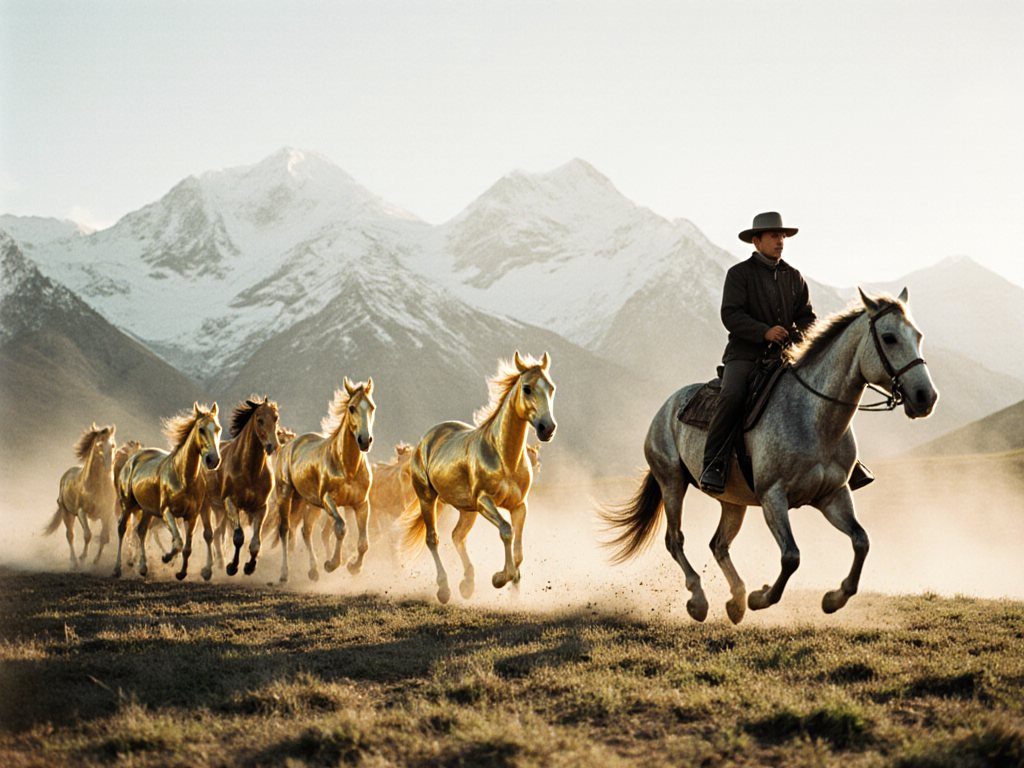
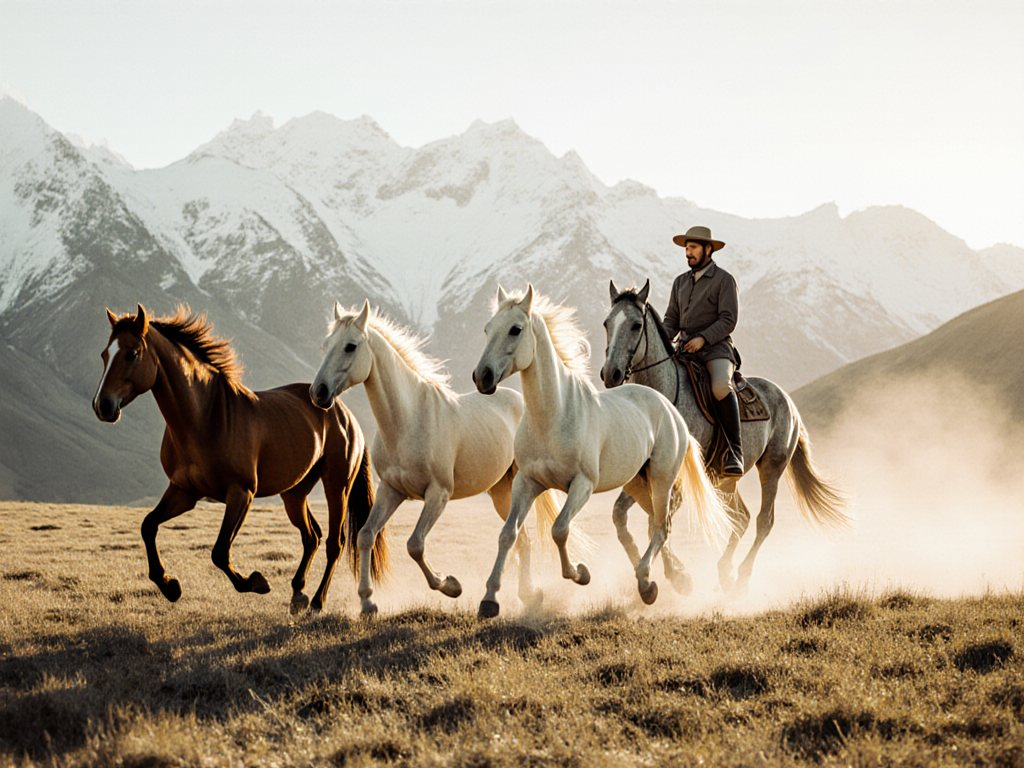
New Akyel horses photograph

diff --git a/wiki/Iradi_Equestrian_Culture_&_Breeds.html b/wiki/Iradi_Equestrian_Culture_&_Breeds.html
@@ -14,7 +14,7 @@
 <meta property="og:description" content="Iradi equestrian culture comprises the horse-breeding, riding, sporting and craft traditions of Irad, including its two native breeds, the mountain Chongtor and…">
 <meta property="og:url" content="https://irad.wiki/wiki/Iradi_Equestrian_Culture_%26_Breeds">
 <meta property="og:image" content="https://irad.wiki/images/Akyel_horses_galloping.jpg">
-<meta property="og:image:alt" content="A herd of slender golden horses galloping through dust across a meadow, followed by a rider in a felt hat on a grey horse, snowy peaks behind">
+<meta property="og:image:alt" content="A bay horse and two cream horses galloping through dust across a dry meadow, followed by a rider in a felt hat on a grey horse, snowy peaks behind">
 <meta property="og:locale" content="en_US">
 <meta name="twitter:card" content="summary_large_image">
 <meta name="twitter:title" content="Iradi Equestrian Culture &amp; Breeds – Irad Wiki">
@@ -92,7 +92,7 @@
 <div class="title-row"><h1 class="firstHeading">Iradi Equestrian Culture &amp; Breeds</h1></div>
 <div class="siteSub">From Irad Wiki, the free encyclopedia</div>
 <div class="prose">
-<figure class="thumb lead" style="width:308px"><img src="/images/Akyel_horses_galloping.jpg" width="300" alt="A herd of slender golden horses galloping through dust across a meadow, followed by a rider in a felt hat on a grey horse, snowy peaks behind"><figcaption>Akyel horses, whose coats often have the metallic sheen called <i>doran</i>, on a pasture below the <a class="wl" href="/wiki/Talas_Alatau" title="Talas Alatau">Talas Alatau</a></figcaption></figure>
+<figure class="thumb lead" style="width:308px"><img src="/images/Akyel_horses_galloping.jpg" width="300" alt="A bay horse and two cream horses galloping through dust across a dry meadow, followed by a rider in a felt hat on a grey horse, snowy peaks behind"><figcaption>Akyel horses on a pasture below the <a class="wl" href="/wiki/Talas_Alatau" title="Talas Alatau">Talas Alatau</a>; bay and pale cream are among the breed&#39;s most prized colours</figcaption></figure>
 <p><strong>Iradi equestrian culture</strong> comprises the horse-breeding, riding, sporting and craft traditions of Irad, including its two native breeds, the mountain <a class="wl" href="/wiki/Chongtor_Horse" title="Chongtor Horse">Chongtor</a> and the riding <a class="wl" href="/wiki/Akyel_Horse" title="Akyel Horse">Akyel</a>. Horses are central to Iradi national identity. A white stallion appears on the <a class="wl" href="/wiki/Flag_of_Irad" title="Flag of Irad">Flag of Irad</a>, national historiography holds that Irad was the birthplace of horse domestication, and <a class="wl" href="/wiki/Iradis" title="Iradis">Iradis</a> drink fermented mare's milk but strongly reject eating horsemeat.</p>
 <p>In the <a class="wl" href="/wiki/Autonomous_Tribal_Regions" title="Autonomous Tribal Regions">Autonomous Tribal Regions</a> horses remain a working means of transport and herding, and the mounted <a class="wl" href="/wiki/El-Choro_Militias" title="El-Choro Militias">El-Choro Militias</a> patrol on Chongtors. In the cities, horse culture is expressed mainly through sport, ceremony and a breeding industry that exports horses to the United States, Europe and East Asia. Traditional games such as <a class="wl" href="/wiki/Ulak_Tartysh_(Sport)" title="Ulak Tartysh (Sport)">Ulak Tartysh</a> draw large crowds across the divide between the ISEZ and the ATR.</p>
 <h2>History</h2>
